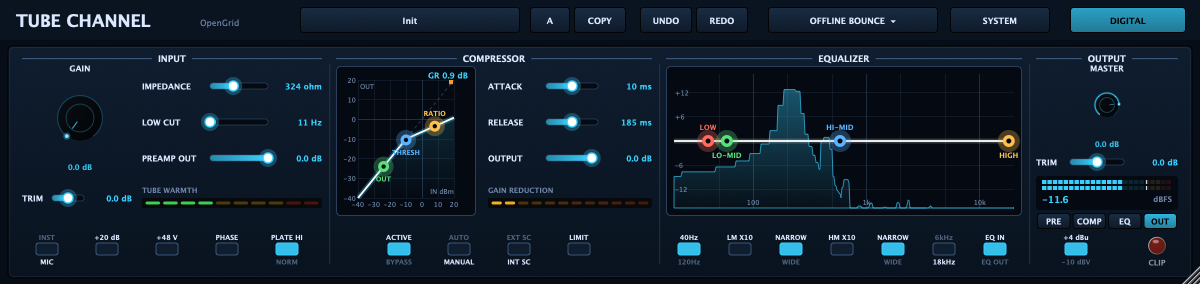
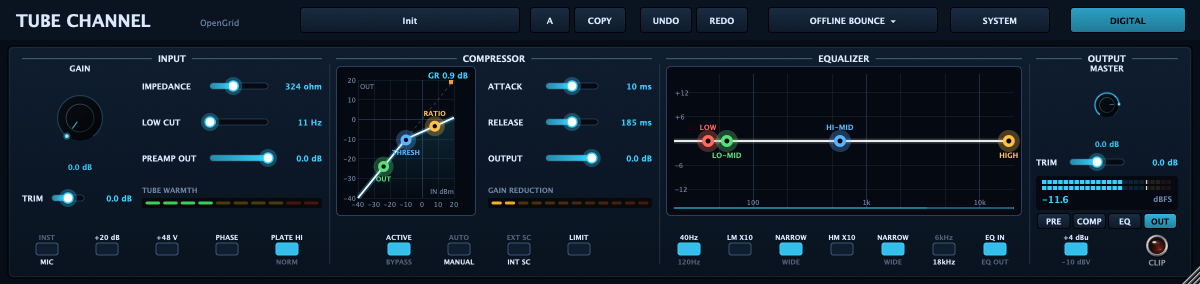
Update to GoodLookinUI 450aeaa, refresh the GUI screenshots, bump to 1.2.5
The editor code is unchanged: the toolkit keeps its function names and now draws the new
hardware look (VU faces, rack ears, panels, knobs, lamps, switches). Release notes for 1.2.5.

Changed region(s): [[0.555, 0.3099, 0.7092, 0.6761], [0.555, 0.7042, 0.7708, 0.7606], [0.9558, 0.8169, 0.9867, 0.9014]]

diff --git a/docs/RELEASE_1.2.5.md b/docs/RELEASE_1.2.5.md
@@ -1,0 +1,44 @@
+# Tube Channel 1.2.5
+
+This release refreshes the interface with the latest GoodLookinUI and hardens the
+plugin against bad input and host re-activation. The sound is unchanged from 1.2.4.
+
+## Interface
+
+- The editor now draws with the current GoodLookinUI toolkit: new VU meter faces,
+  rack ears, brushed panels, knobs, lamps and switches. Layout, controls and
+  parameters are unchanged. The screenshots in the manual are regenerated.
+
+## Fixes
+
+- **NaN and infinity input**: a single non-finite sample from the host (an upstream
+  plugin glitch) could enter the filters and detector and silence the plugin until
+  it was reloaded. Non-finite input and sidechain samples are now treated as silence.
+- **Re-activation**: when a host re-prepares the plugin during playback (sample-rate
+  or block-size change), the Circuit and HQ engines used to build their whole chain
+  inside the next audio callback, a stall of about 200 ms. The chain is now built in
+  `prepareToPlay` and the audio thread only swaps it in; the first callback takes
+  about 1.5 ms.
+- **Latency reporting**: a chain built while a re-activation landed could report the
+  old latency to the host, and unchanged latency could be announced twice. Latency
+  is now announced from one place, and only when it changes.
+- **Spectrum display**: the audio thread fills the spectrum ring only while an editor
+  is open.
+
+## Packaging
+
+- The macOS and Windows packaging scripts refuse to run when the built bundles do not
+  match `VERSION`, and `installer/build_pkg.sh` builds the signed macOS package.
+- The Windows build is a bundle zip (VST3, CLAP, LV2); the README now says so.
+
+## Formats and platforms
+
+- macOS universal (Apple silicon and Intel): VST3, Audio Unit, CLAP, LV2, and AAX.
+- Windows x64: VST3, CLAP, and LV2.
+- Linux x86_64: VST3, CLAP, LV2, and standalone.
+
+## Licensing
+
+Tube Channel source code is MIT licensed. All official plugin binaries, including
+the macOS AAX binary, are freeware and are built under the author's commercial JUCE
+Developer license. See [THIRD_PARTY_LICENSES.md](../THIRD_PARTY_LICENSES.md).
